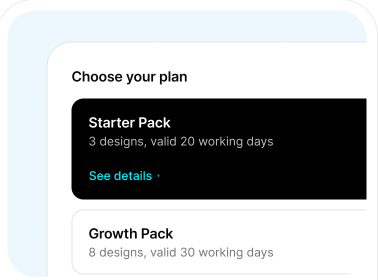
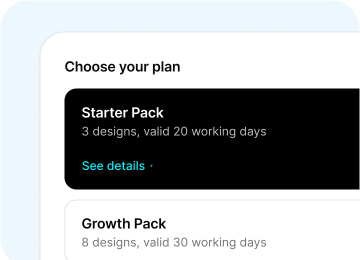
Fix the step-card radii and the Pro card's black type
Two unrelated faults, both from earlier shortcuts of mine.

Step cards were a card drawn around a picture of a card. The step images were
cropped from the Figma at the card's OUTER edge, so each one baked in that card's
own rounded corner and padding; wrapping them in .step-card then drew a second
corner inside the first and pushed the artwork 26px in where the design has 14.
Re-cropped to the card's inner rect (measured: border at x=80, content at x=91,
so 1px border + 10px padding) and matched the real geometry: card radius 31px
measured off the render, not the 20px token, padding 10px, and the media radius
set to outer-minus-padding so the curves stay concentric instead of reading as a
tighter second corner.

The Pro card's price and feature list rendered black on teal. .price-pro .amount
and .price-amount .amount both score 0-2-0, as do .price-pro li and
.price-features li, so the generic rules won on source order alone. The
overrides now carry a doubled class, with a note, since the obvious "cleanup"
is to undo exactly that.

Changed region(s): [[0.1528, 0.3385, 1.0, 0.7385], [0.2139, 0.8, 0.7639, 0.9538], [0.1833, 0.2154, 0.5194, 0.3077]]

diff --git a/css/style.css b/css/style.css
@@ -284,17 +284,21 @@ h1, h2, h3 { color: var(--ink); font-weight: 500; letter-spacing: -0.03em; }
     gap: 32px;
 }
 
+/* Radius and padding measured off the Figma card (border at x=80, content at
+   x=91, corner solid 31px down). */
 .step-card {
     background: #fff;
     border: 1px solid var(--line);
-    border-radius: var(--radius-card);
-    padding: 14px 14px 36px;
+    border-radius: 30px;
+    padding: 10px 10px 36px;
     text-align: center;
     box-shadow: 0 18px 40px -28px rgba(16, 16, 16, .18);
 }
 
+/* Outer radius minus the padding, so the inner curve stays concentric with the
+   card's instead of reading as a second, tighter corner. */
 .step-media {
-    border-radius: 12px;
+    border-radius: 20px;
     overflow: hidden;
     margin-bottom: 26px;
 }
@@ -366,10 +370,17 @@ h1, h2, h3 { color: var(--ink); font-weight: 500; letter-spacing: -0.03em; }
 
 .price-standard { background: #fff; }
 .price-pro { background: var(--teal-dark); }
-.price-pro h3, .price-pro .amount { color: #fff; }
-.price-pro .per, .price-pro .price-note { color: rgba(255, 255, 255, .75); }
-.price-pro .list-label { color: rgba(255, 255, 255, .7); }
-.price-pro li { color: rgba(255, 255, 255, .92); }
+
+/* Pro is a dark surface, so its type inverts. The doubled class is load-bearing:
+   the generic .price-amount/.price-features rules further down match these same
+   elements with equal specificity, so they would win on source order alone, and
+   that is exactly what left the price and the feature list black on teal. */
+.price-card.price-pro h3,
+.price-card.price-pro .amount { color: #fff; }
+.price-card.price-pro .per,
+.price-card.price-pro .price-note { color: rgba(255, 255, 255, .75); }
+.price-card.price-pro .list-label { color: rgba(255, 255, 255, .7); }
+.price-card.price-pro li { color: rgba(255, 255, 255, .92); }
 
 .price-main { display: flex; flex-direction: column; }
 .price-main h3 { font-size: 22px; }
